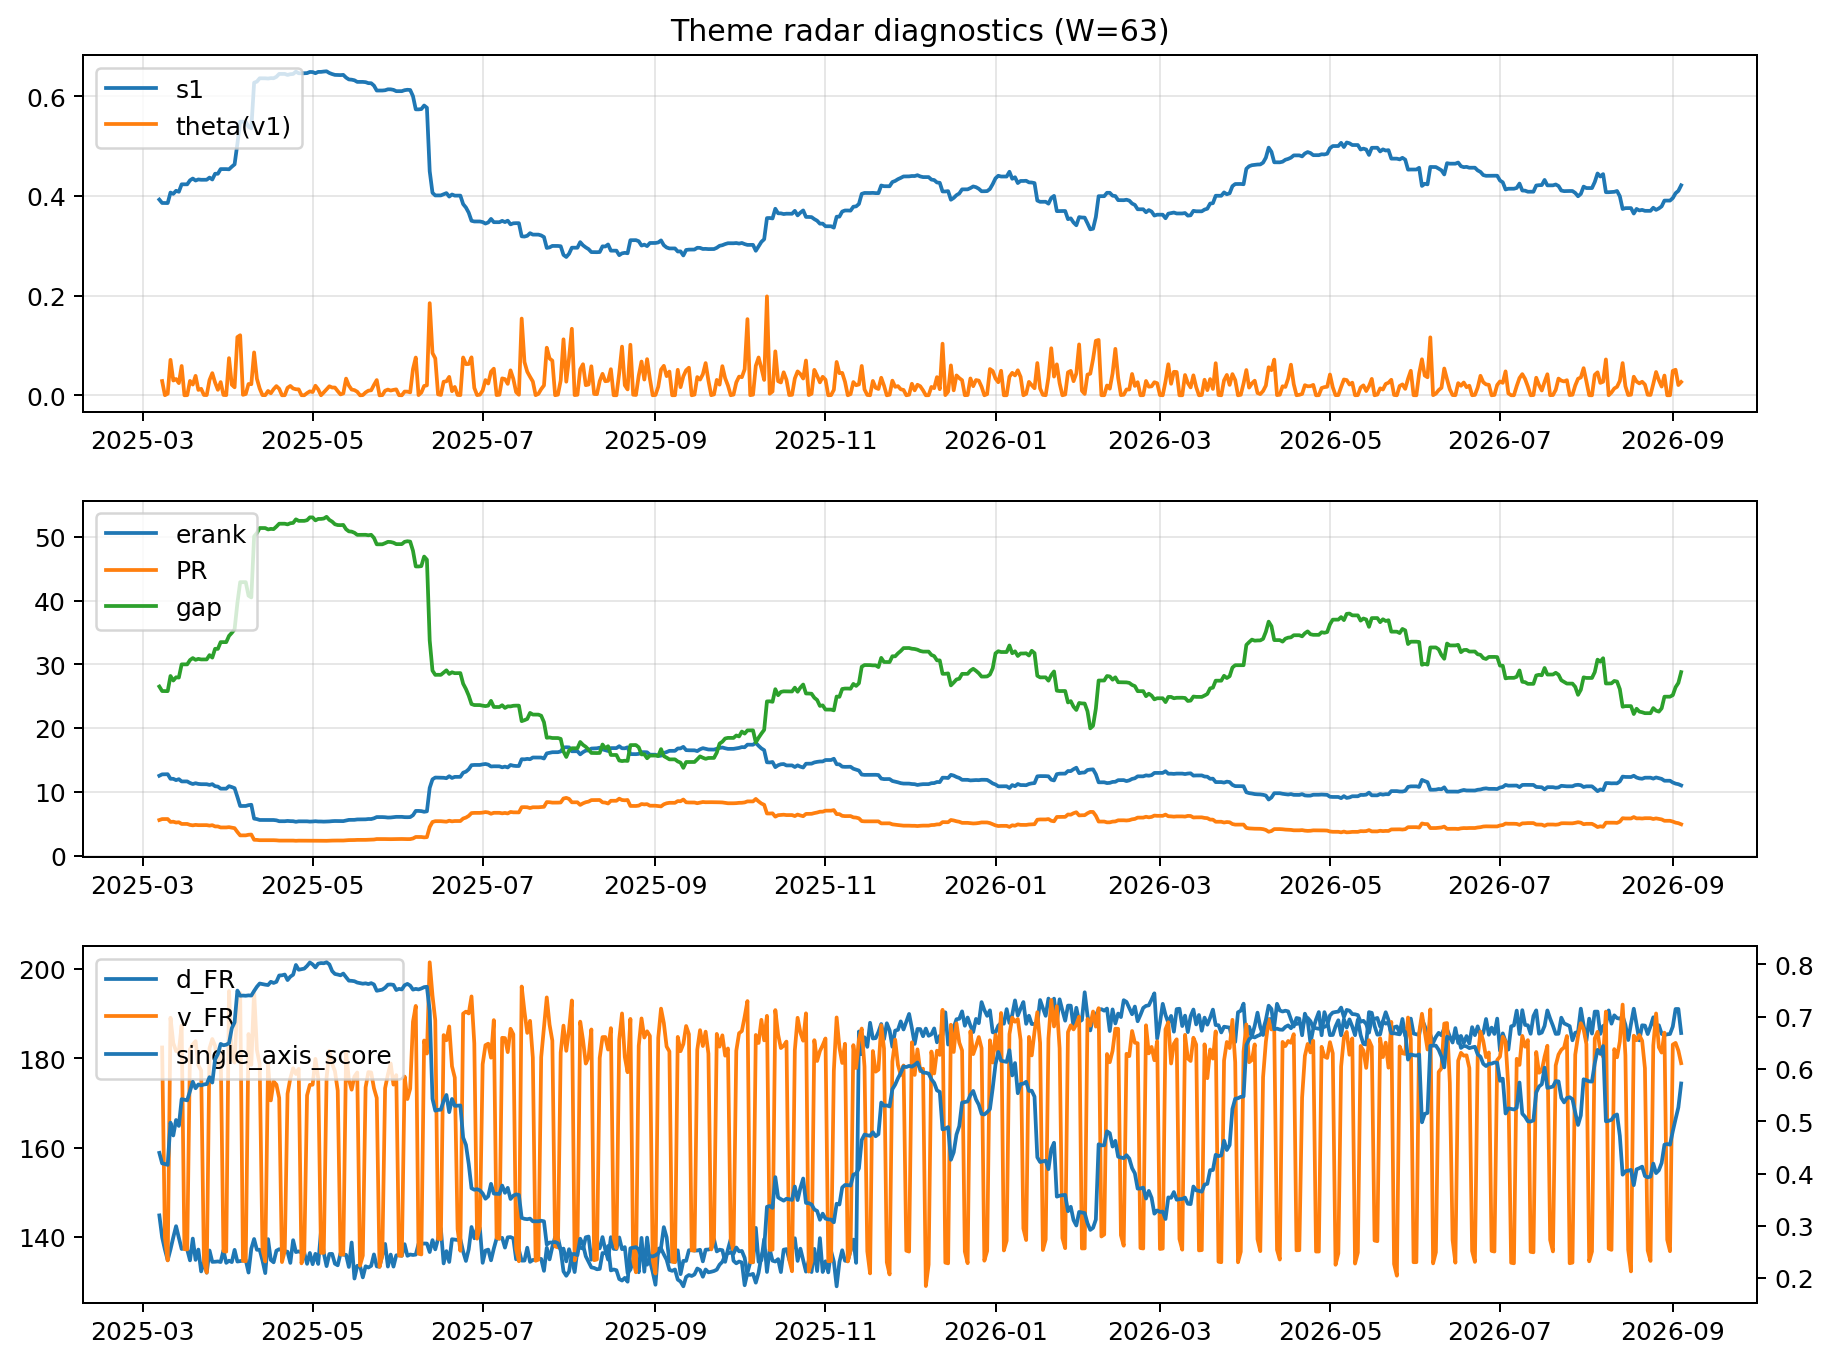
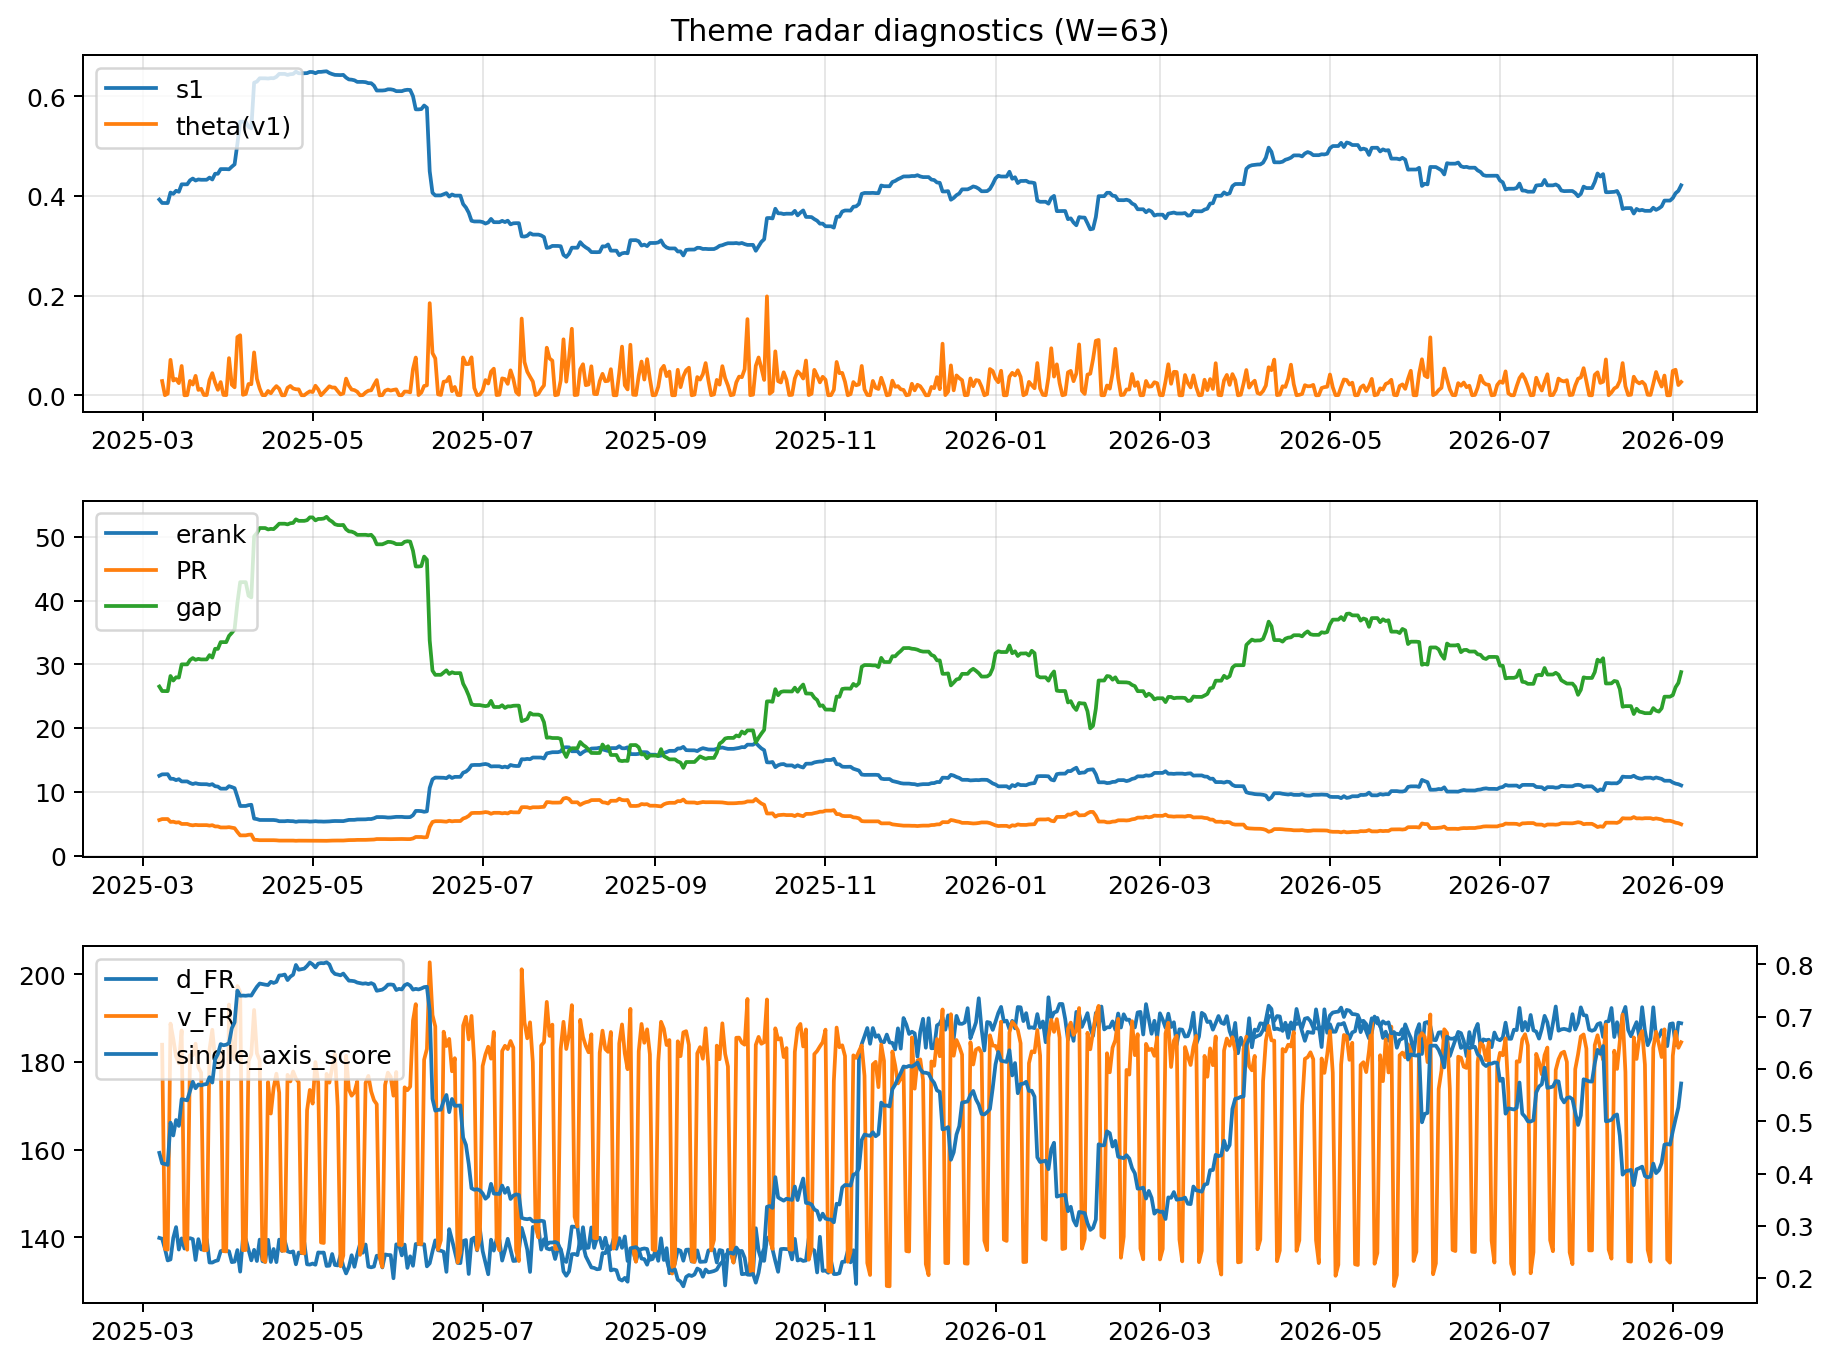
log: 2026-09-04 | sha256:992ebbc0fdd3614f27206f99aebe730477c8d4c245259ce0e1dc01c058c1fa96

diff --git a/logs/2026-09-04.md b/logs/2026-09-04.md
@@ -3,43 +3,43 @@
 ![diagnostic W63](../assets/diagnostic/2026-09-04_W63.png)
 
 ## Leaders (v1) — W=63
-- **Nuclear_Uranium** (0.08821690147846)
-- Semis (0.0684152779750228)
-- Quantum (0.0622471026517239)
+- **Nuclear_Uranium** (0.0882169002506583)
+- Semis (0.0684152716536171)
+- Quantum (0.0622470983085254)
 
 ## Challengers — W=63
-**v2:** Rates (0.0977562708226362), Semis (0.0771788682882906), Grid_Power (0.0623072679442235)
-**v3:** Genomics_Bio (0.0917255862037115), Crypto (0.0903901529011359), Metals (0.0760882743245091)
+**v2:** Rates (0.0977565338356034), Semis (0.0771789063118447), Grid_Power (0.0623073019925974)
+**v3:** Genomics_Bio (0.0917255713588564), Crypto (0.0903901181464977), Metals (0.0760882410452871)
 
 ## Migration (20D slope) — W=63
 **Top risers:**
-- axis_Rates: 0.0005550829856177
-- axis_Space: 0.0003639968158117
-- axis_Genomics_Bio: 0.0003599104813904
-- axis_DataCenter_Infra: 0.0002978312150221
-- axis_Software_Cloud: 0.0002482132729971
-- axis_Commodities: 0.0002415884195649
-- axis_Drones_Autonomy: 0.0001580059978185
-- axis_Cyber: 6.460444238753254e-05
-- axis_USD: 6.447092763185354e-05
-- axis_Credit: 6.054792887697956e-05
+- axis_Rates: 0.0005550786847875
+- axis_Space: 0.0003639976681683
+- axis_Genomics_Bio: 0.0003599102979559
+- axis_DataCenter_Infra: 0.0002978313610075
+- axis_Software_Cloud: 0.0002482130524941
+- axis_Commodities: 0.0002415887403766
+- axis_Drones_Autonomy: 0.000158006195336
+- axis_Cyber: 6.460460645630298e-05
+- axis_USD: 6.447082892722326e-05
+- axis_Credit: 6.0546469252802095e-05
 
 **Top fallers:**
-- axis_Sector_ConsDisc: -0.0001010691547131
-- axis_Equity_US: -0.0001150106898248
-- axis_Equity_ExUS: -0.000129777844796
-- axis_Robotics: -0.00013223097501
-- axis_Sector_RealEstate: -0.0001505906269436
-- axis_Critical_Minerals: -0.0001956398772109
-- axis_MegaCap_AI: -0.0002073011268621
-- axis_Grid_Power: -0.000209241500353
-- axis_Sector_Health: -0.0002236376611541
-- axis_Semis: -0.0003262400345961
+- axis_Sector_ConsDisc: -0.000101069183631
+- axis_Equity_US: -0.000115010617514
+- axis_Equity_ExUS: -0.0001297777357222
+- axis_Robotics: -0.0001322307288564
+- axis_Sector_RealEstate: -0.0001505904343177
+- axis_Critical_Minerals: -0.0001956393972569
+- axis_MegaCap_AI: -0.0002073011888501
+- axis_Grid_Power: -0.0002092408284333
+- axis_Sector_Health: -0.0002236375002491
+- axis_Semis: -0.0003262396204119
 
 ## Risk line (W=63)
-- s1: 0.4212433399256298
-- theta_v1: 0.0267059070752583
-- v_FR: 178.86506235377564
+- s1: 0.4212434064160149
+- theta_v1: 0.0267059341991588
+- v_FR: 184.52432965507347
 - single_axis_score: 0.5722120658135283
 
 ## Interpretation
@@ -48,7 +48,7 @@
 - Action: Tomorrow watchlist: Rates, Space, Genomics_Bio, DataCenter_Infra, Software_Cloud + v2_top1=Rates
 - Action: Hedge note: normal correlation stability.
 
-- Percentiles (W=63 history): vfr_pct=0.42, theta_pct=0.61, s1_pct=0.58, score_pct=0.62.
+- Percentiles (W=63 history): vfr_pct=0.75, theta_pct=0.61, s1_pct=0.58, score_pct=0.62.
 
 ---
[2 lines of base64/hex data omitted]
